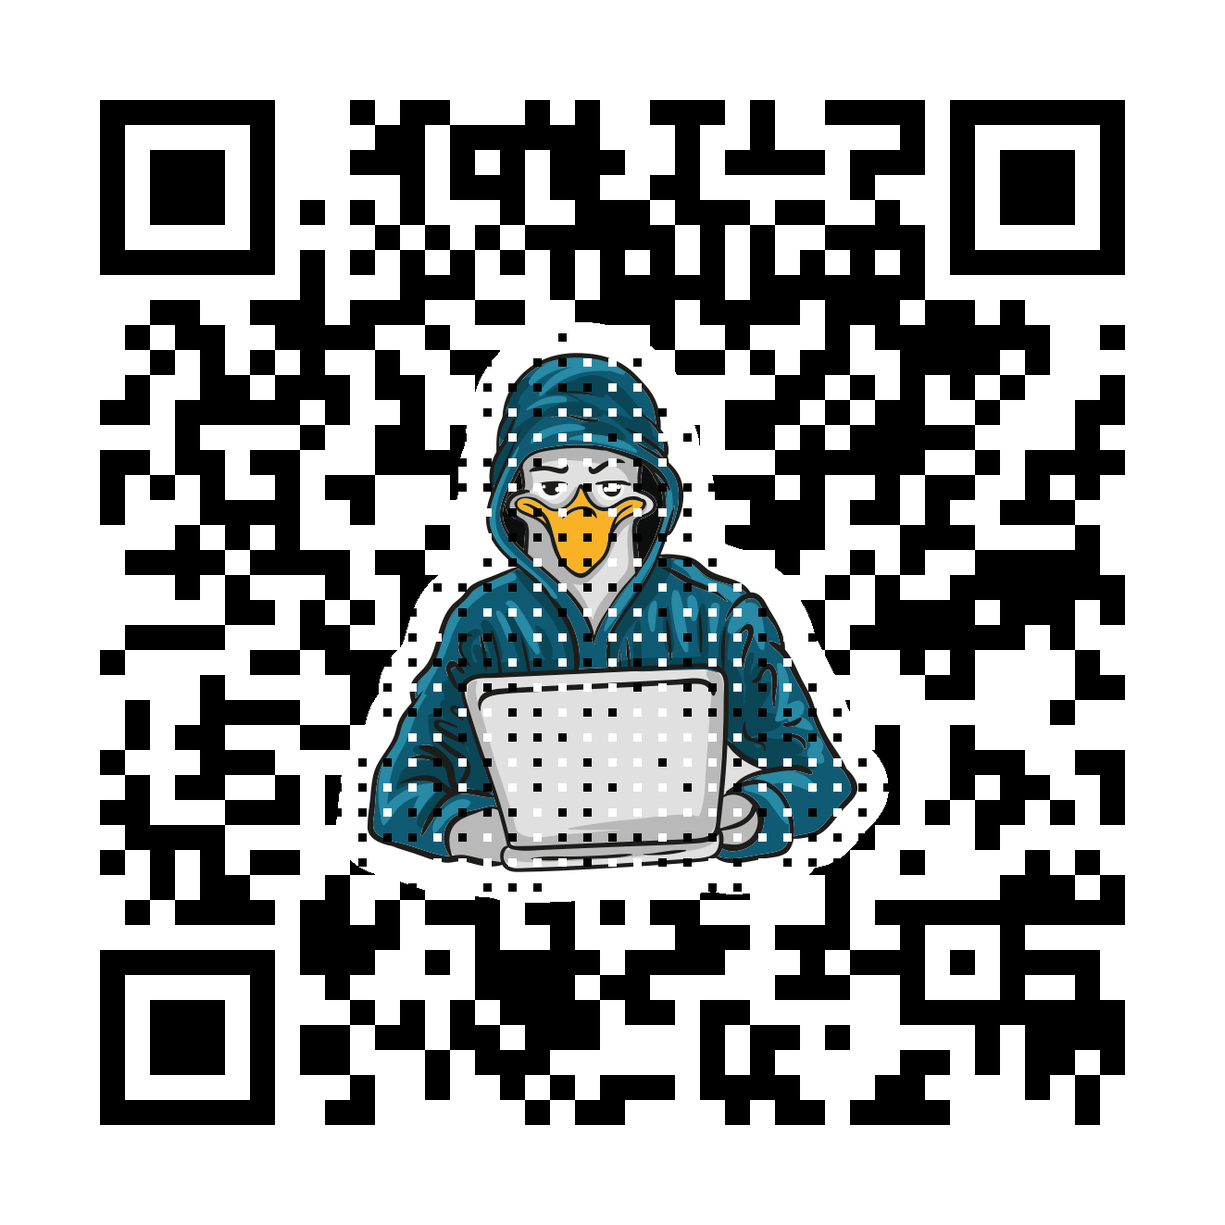
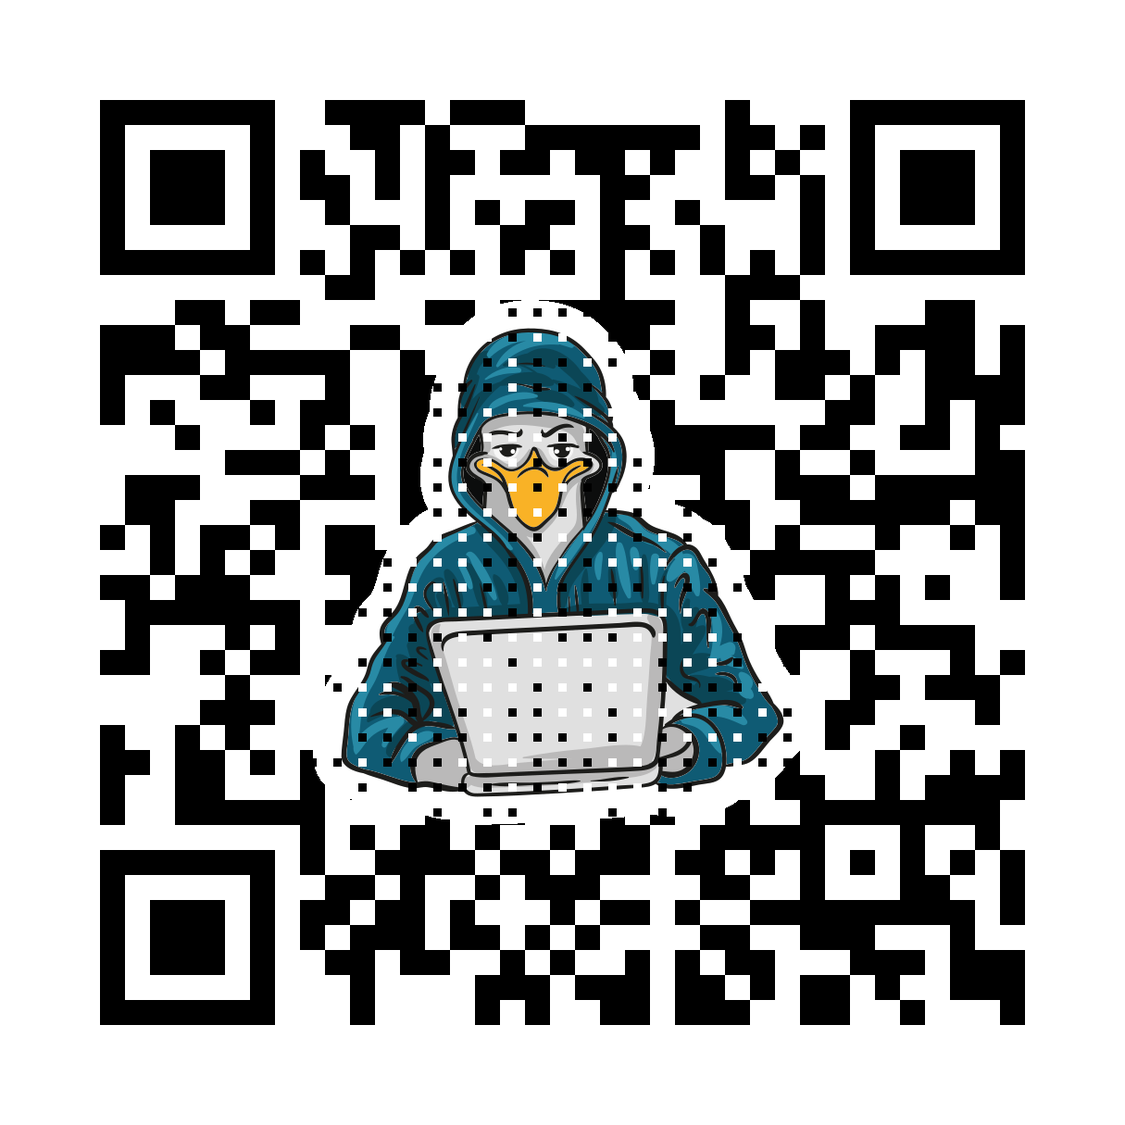
QR Codes: Update wifi for 2026, consolidate scripts

diff --git a/design/qr-codes/seagl-qr-generator.py b/design/qr-codes/seagl-qr-generator.py
@@ -8,8 +8,7 @@ qr.to_artistic(background='schedule-qr-sticker.svg', target='schedule-qr.png', s
 qr = segno.make('https://seagl.org/feedback', error='h')
 qr.to_artistic(background='feedback-qr-sticker.svg', target='feedback-qr.png', scale=25)
 
-#qr = segno.make('https://seagl.org/wifi', error='h')
-qr = segno.make('WIFI:T:nopass;S:University of Washington;P:;H:false;;', error='h')
+qr = segno.make('WIFI:T:nopass;S:Husky Guest;P:;H:false;;', error='h')
 qr.to_artistic(background='wifi-qr-sticker.svg', target='wifi-qr.png', scale=25)
 
 qr = segno.make('https://seagl.org/teagl', error='h')
@@ -23,3 +22,9 @@ qr.to_artistic(background='donation-qr-sticker.svg', target='donation-qr.png', s
 
 qr = segno.make('https://seagl.org/cfp', error='h')
 qr.to_artistic(background='cfp-qr-sticker.svg', target='cfp-qr.png', scale=25)
+
+qr = segno.make('https://seagl.org', error='h')
+qr.to_artistic(background='website-sticker.svg', target='website-qr.png', scale=25)
+
+qr = segno.make('https://seagl.org/links', error='h')
+qr.to_artistic(background='links-sticker.svg', target='links-qr.png', scale=25)
